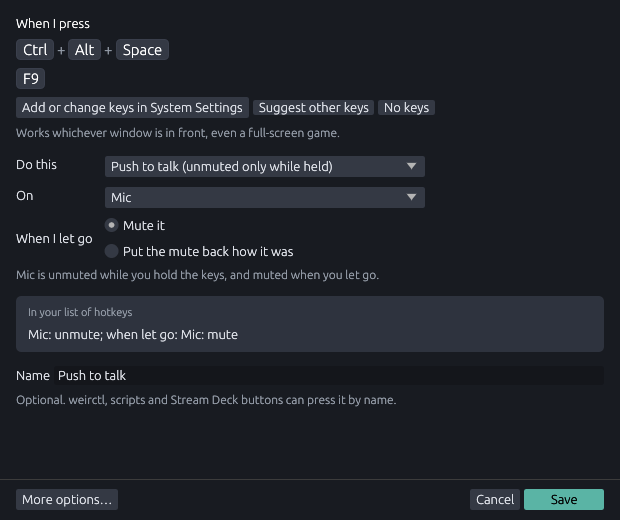
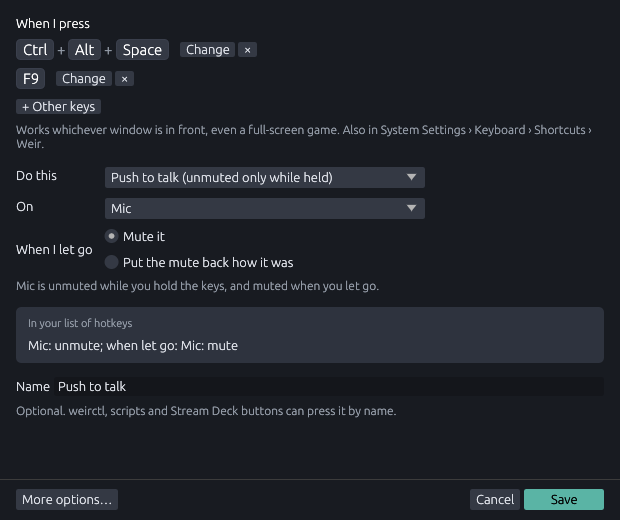
Document hotkeys' keys on Plasma and elsewhere
The user guide says that on Plasma keys can be changed in Weir or in
System Settings, that a key another program has is left out, and that
a switched-off hotkey lets go of its keys; GNOME and Hyprland keep the
one-suggestion way. New screenshots show the list with a line per key
combination and the editor on Plasma. API.md documents KeysStatus's
settable and the 20 ms repeat; CLI.md the same; ARCHITECTURE.md why
Weir talks to kglobalaccel.

Claude-Session: https://claude.ai/code/session_01PWaMWDrXpfpALWtEnsyueZ

Changed region(s): [[0.0306, 0.1231, 0.9806, 0.8], [0.2758, 0.0615, 0.429, 0.1231]]

diff --git a/docs/API.md b/docs/API.md
@@ -1266,13 +1266,13 @@ Add a hotkey, or replace one. The parameters are the [Hotkey](#hotkey):
 |---|---|---|
 | `id` | number, *optional* | The hotkey to replace, whole. Left out, or 0, adds a new one. |
 | `name` | string | Unique, ignoring case, up to 60 characters. |
-| `keys` | list of strings, *optional* | Such as `["Ctrl+Alt+M"]`, or several, `["F9", "Ctrl+Alt+T"]`, any of which presses the hotkey: up to 8. See [Keys](#keys). One may be given as a string, `"F9"`. Left out or empty, the hotkey is pressed only by name. Where the desktop looks after the keys, only the first is suggested to it; more are added in its settings (see [KeysStatus](#keysstatus)). |
-| `enabled` | boolean, *optional* | `false` switches its keys off; it can still be pressed by name. `true` when left out. Where the desktop looks after the keys, it keeps them for a hotkey switched off, once it has had them. |
+| `keys` | list of strings, *optional* | Such as `["Ctrl+Alt+M"]`, or several, `["F9", "Ctrl+Alt+T"]`, any of which presses the hotkey: up to 8. See [Keys](#keys). One may be given as a string, `"F9"`. Left out or empty, the hotkey is pressed only by name. Where the desktop looks after the keys, it gets all of them when [KeysStatus](#keysstatus) says `settable` (KDE Plasma), and otherwise only the first is suggested to it, more being added in its settings. |
+| `enabled` | boolean, *optional* | `false` switches its keys off; it can still be pressed by name. `true` when left out. Where the desktop looks after the keys, it keeps them for a hotkey switched off, once it has had them; with `settable`, it lets other programs use them meanwhile. |
 | `steps` | list of [HotkeyStep](#hotkeystep) | What a press does, up to 32. |
 | `each_press` | string, *optional* | `all`: every step at each press (the default). `next`: the next step only, back to the first after the last. |
 | `on_release` | string, *optional* | What letting go does: `nothing` (the default), `restore` (put back what the press changed) or `steps` (do `release_steps`). |
 | `release_steps` | list of [HotkeyStep](#hotkeystep), *optional* | With `on_release` `steps`: what letting go does, up to 32. |
-| `repeat_ms` | number, *optional* | Do the steps again every this many milliseconds while the keys are held, 50 to 2000. The first repeat waits 400 ms, like a keyboard's, or `repeat_ms` if that is longer. |
+| `repeat_ms` | number, *optional* | Do the steps again every this many milliseconds while the keys are held, 20 to 2000. The first repeat waits 400 ms, like a keyboard's, or `repeat_ms` if that is longer. |
 
 Returns the Hotkey as saved: with its id, its keys as a list written the
 usual way, and strips and buses by id.
@@ -1959,10 +1959,11 @@ keys, media keys, `Pause`, `Print` and `ScrollLock` can be on their own.
 
 | Field | Type | |
 |---|---|---|
-| `method` | string | `desktop`: the desktop looks after the keys, through the XDG desktop portal's global shortcuts (KDE Plasma, GNOME 48 and newer, Hyprland). Each hotkey with keys is one entry in the desktop's shortcut settings, suggesting the first of its `keys`, where people change them and add more. `x11`: Weir watches the keys itself, on an X11 desktop. `unavailable`: neither, so hotkeys are pressed only by name, for instance from a shortcut of the desktop's own running `weirctl hotkey run NAME`. `starting`: not known yet, as at login before the desktop is up. |
+| `method` | string | `desktop`: the desktop looks after the keys, through the XDG desktop portal's global shortcuts (KDE Plasma, GNOME 48 and newer, Hyprland). Each hotkey with keys is one entry in the desktop's shortcut settings, suggesting the first of its `keys`, where people change them and add more (see `settable`). `x11`: Weir watches the keys itself, on an X11 desktop. `unavailable`: neither, so hotkeys are pressed only by name, for instance from a shortcut of the desktop's own running `weirctl hotkey run NAME`. `starting`: not known yet, as at login before the desktop is up. |
 | `message` | string | What that means, in a sentence to show people. |
 | `assigned` | object, *optional* | With `desktop`: the keys each hotkey really has, by id, as the desktop writes them, such as `{"1": ["F9", "Ctrl+Alt+I"]}`; an empty list for one it has given none. They can differ from the hotkey's `keys`, since they are changed and added to in the desktop's settings. A hotkey switched off that the desktop never had is left out. |
 | `configurable` | boolean, *optional* | With `desktop`: `true` when [`open_shortcut_settings`](#open_shortcut_settings) can open the desktop's settings at Weir's hotkeys (KDE Plasma 6.5 and newer). |
+| `settable` | boolean, *optional* | With `desktop`: `true` when Weir sets the desktop's keys itself (KDE Plasma). A hotkey's `keys` all work, keys changed in the desktop's settings come back into `keys`, and a key another program has is left out, with a problem saying which. Otherwise only the first of a hotkey's `keys` is suggested. |
 
 ### HistoryInfo
 

diff --git a/docs/USER_GUIDE.md b/docs/USER_GUIDE.md
@@ -577,17 +577,17 @@ to change one. Each strip's and bus's **…** menu has them too, under
 
 * **When I press**: press the keys you want, such as Ctrl or Alt with a
   letter. F keys, media keys and Pause can be used on their own. **Esc**
-  stops recording. **Change** records them again, and **×** takes them
-  away. With no keys at all, a hotkey can still be pressed by name from
-  `weirctl`, a script or a Stream Deck button.
+  stops recording. **+ Other keys** adds more keys that do the same, any
+  of which work, such as a button on a gaming mouse. **Change** records a
+  set again, and **×** takes it away. With no keys at all, a hotkey can
+  still be pressed by name from `weirctl`, a script or a Stream Deck
+  button.
 
-  Where your desktop looks after the keys (see
-  [below](#your-desktop-and-the-keys)), more keys for the same hotkey are
-  added in its settings, and once saved, the hotkey lists every key the
-  desktop has for it. **Add or change keys in System Settings** opens
-  them; **Suggest other keys** gives it the keys you press instead of all
-  of those. On an X11 desktop, **+ Other keys** adds more keys here, any of
-  which work, such as a button on a gaming mouse.
+  On GNOME and Hyprland, which let Weir suggest only one set of keys, more
+  are added in the desktop's settings instead (see
+  [below](#your-desktop-and-the-keys)): once saved, the hotkey lists every
+  key the desktop has for it, **Suggest other keys** gives it the keys you
+  press instead of all of those, and **No keys** takes them away.
 * **Do this**: what it does, and to which strip or bus.
   * **Mute or unmute**, **Solo**, an effect, or **Send to a bus**: switch
     it each time, always on, always off, or on only **while held**, back
@@ -629,18 +629,25 @@ their order.
 
 On KDE Plasma, GNOME 48 and newer, and Hyprland, your desktop looks after
 the keys. Each hotkey is one entry in its shortcut settings, under the
-hotkey's name: on Plasma, **System Settings › Keyboard › Shortcuts ›
-Weir**. Weir suggests the keys you pressed, and the first time, the desktop
-asks you to confirm them. To give a hotkey more keys, or other ones, change
-its entry there, and Weir lists them. On Plasma 6.5 and newer, **Keys in
-System Settings** under the list opens that page. Plasma shows the keys
-Weir suggested as the *default shortcut*, with a box to switch it off, and
-keys you add there as *custom shortcuts*.
+hotkey's name. The first time, the desktop asks you to confirm the keys
+you pressed. Examples get their entry when you first switch them on, and
+removing a hotkey removes its entry.
 
-Removing a hotkey removes its entry. A switched-off hotkey keeps its entry
-and keys, ready for when you switch it back on, and the desktop keeps
-those keys for it meanwhile, so other programs do not get them either.
-Examples get their entry when you first switch them on.
+On Plasma the entries are in **System Settings › Keyboard › Shortcuts ›
+Weir**, and **Keys in System Settings** under the list opens that page
+(Plasma 6.5 and newer). Keys can be changed in either place: those you give
+a hotkey in Weir go into its entry, and those you change there show up in
+Weir. A key another program already uses is left out, and the list says
+which program has it. A switched-off hotkey keeps its entry and keys, ready
+for when you switch it back on, and lets go of the keys meanwhile, so other
+programs can use them. Plasma shows the keys of a new hotkey as its
+*default shortcut*, with a box to switch it off, and other keys as *custom
+shortcuts*.
+
+On GNOME and Hyprland, Weir can suggest only one set of keys for each
+hotkey; give it more, or other ones, in the desktop's settings, and Weir
+lists them. A switched-off hotkey keeps its entry and keys there, and the
+desktop keeps those keys for it meanwhile.
 
 On an X11 desktop, Weir watches the keys itself, and a key another program
 already uses is reported in the list. Anywhere else, hotkeys work only by

diff --git a/docs/CLI.md b/docs/CLI.md
@@ -320,12 +320,12 @@ HOTKEY is a hotkey's name or id. `add` and `change` take:
 
 | Option | |
 |---|---|
-| `--keys KEYS` | Such as `Ctrl+Alt+M`: any of Ctrl, Alt, Shift and Super, then one key. Letters, numbers and the like need Ctrl, Alt or Super; F1 to F24, media keys and Pause can be on their own. [The full list](API.md#keys). Give it more than once for several, any of which presses the hotkey; where the desktop looks after the keys, only the first is suggested to it. It replaces the keys the hotkey had. |
+| `--keys KEYS` | Such as `Ctrl+Alt+M`: any of Ctrl, Alt, Shift and Super, then one key. Letters, numbers and the like need Ctrl, Alt or Super; F1 to F24, media keys and Pause can be on their own. [The full list](API.md#keys). Give it more than once for several, any of which presses the hotkey; on desktops other than KDE Plasma that look after the keys, only the first is suggested. It replaces the keys the hotkey had. |
 | `--do STEP` | A step: a method and its parameters as JSON, `'set_strip {"id": "Mic", "mute": "toggle"}'`, or a whole [step](API.md#hotkeystep) as JSON, for a fade. Once per step, in order. |
 | `--each-press all\|next` | Every step at each press (the default), or the next one, going round. |
 | `--release nothing\|restore\|steps` | What letting go does: nothing, put back what pressing changed, or the `--release-do` steps. |
 | `--release-do STEP` | A step for letting go, like `--do`. |
-| `--repeat MS` | Do the steps again every MS milliseconds while held, 50 to 2000; `0` not to. |
+| `--repeat MS` | Do the steps again every MS milliseconds while held, 20 to 2000; `0` not to. |
 | `--enabled on\|off\|toggle` | Switch its keys on or off. Off, it can still be run by name. |
 
 ```sh
@@ -343,10 +343,11 @@ weirctl hotkey remove "Fade out"
 
 `weirctl hotkeys` starts with how keys reach Weir. On KDE Plasma and other
 Wayland desktops with a shortcut service, the desktop looks after the keys:
-each hotkey is one entry in its shortcut settings, suggesting the first of
-its keys, and more keys for it are added there. `weirctl hotkeys` then
-shows every key the desktop has for each hotkey, and `weirctl hotkey
-settings` opens those settings.
+each hotkey is one entry in its shortcut settings. On Plasma, Weir gives
+the entry all of a hotkey's keys, and keys changed there come back; on
+other desktops only the first is suggested, and more are added there.
+`weirctl hotkeys` shows every key the desktop has for each hotkey, and
+`weirctl hotkey settings` opens those settings.
 
 ## Settings and the window
 

diff --git a/docs/ARCHITECTURE.md b/docs/ARCHITECTURE.md
@@ -261,7 +261,23 @@ desktop already has, and a switched-off hotkey stays bound if it is one of
 them, so its keys are not lost, but is not bound for the first time while
 off, so examples added switched off do not make the desktop ask about
 keys. Shortcut ids carry a hash of the suggested keys, so changed keys are
-offered afresh. The portal files shortcuts under the program's
+offered afresh.
+
+Plasma's portal backend falls short in three ways: it takes one
+suggestion, never changes a known shortcut's keys, and forgets a shortcut
+left out of a binding only if the same session bound it, which a new
+session never has. So on Plasma Weir also talks to Plasma's own shortcut
+service, kglobalaccel (`kde.rs`), as System Settings does, for its own
+component only: it forgets shortcuts no hotkey has (`unregister`), gives a
+hotkey's shortcut all its keys when they change in Weir
+(`setForeignShortcutKeys`, after asking `globalShortcutsByKey` whether
+another program has one), frees a switched-off hotkey's keys
+(`setInactive`; binding again takes them back), and reads keys as Qt key
+codes rather than as text in the desktop's language. Keys changed in
+System Settings come back into the hotkey's `keys`, so the two never pull
+against each other: Weir only sends keys that changed in Weir since the
+last binding. A hotkey keeps its shortcut id when its keys change, and a
+change of keys alone needs no new binding. The portal files shortcuts under the program's
 name and refuses them without one, but works the name out only for
 programs started from the application menu, not for the daemon started at
 login. So the daemon first tells the portal it is `weir` (its `Register`
